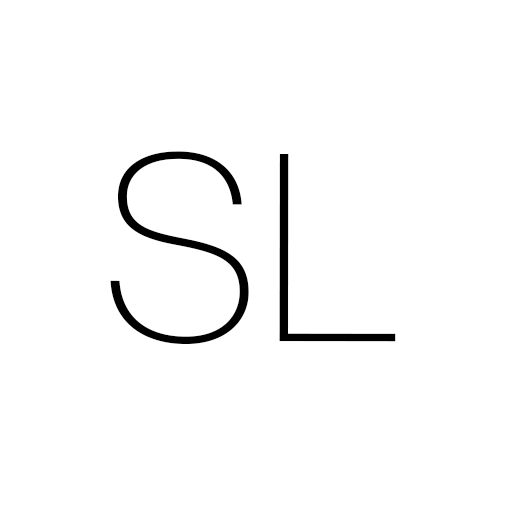
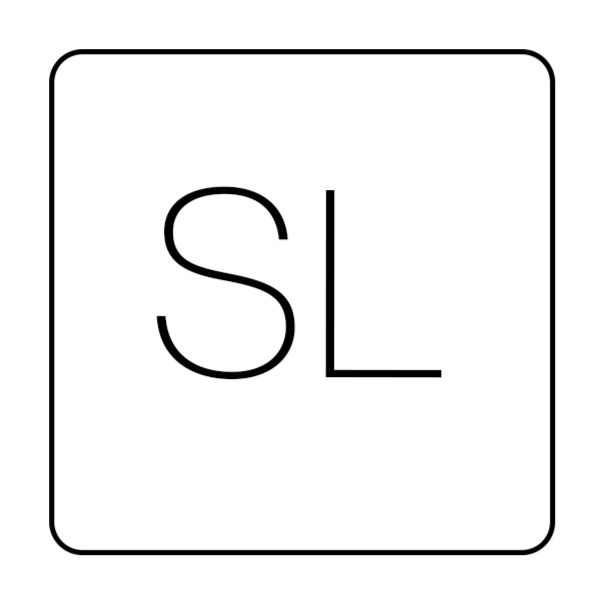
new datalayer implementation

diff --git a/app.vue b/app.vue
@@ -7,7 +7,7 @@
 </template>
 
 <script setup>
-	const favicon = ref("/icon.png");
+	const favicon = ref("/maskable_icon_x512.png");
 
 	useHead({
 		script: [
@@ -60,11 +60,11 @@
 			},
 			{
 				name: "twitter:image",
-				content: "https://res.cloudinary.com/peggy-co/image/upload/q_auto/v1664807725/SugarLoaf/twitterImage_bzr0tx.webp",
+				content: "https://www.sugarloafantigua.com/maskable_icon.png",
 			},
 			{
 				name: "twitter:image:alt",
-				content: "https://res.cloudinary.com/peggy-co/image/upload/q_auto/v1664817748/SugarLoaf/icon_qp0twv.webp",
+				content: "https://www.sugarloafantigua.com/maskable_icon_x512.png",
 			},
 		],
 		link: [

diff --git a/nuxt.config.ts b/nuxt.config.ts
@@ -26,7 +26,7 @@ export default defineNuxtConfig({
 	},
 	pwa: {
 		icon: {
-			source: "/icon.png",
+			source: "/maskable_icon.png",
 			sizes: [512],
 		},
 		meta: {
@@ -41,7 +41,7 @@ export default defineNuxtConfig({
 				"A luxurious Antiguan holiday residence that is Home from Home. Set in large and quiet gardens overlooking Falmouth Harbour, Sugar Loaf has views to swoon at and plenty of privacy, peace and quiet",
 			ogTitle: "Sugar Loaf - An Antiguan holiday Residence",
 			ogImage: {
-				path: "/icon.png",
+				path: "/maskable_icon.png",
 				width: 512,
 				height: 512,
 			},
